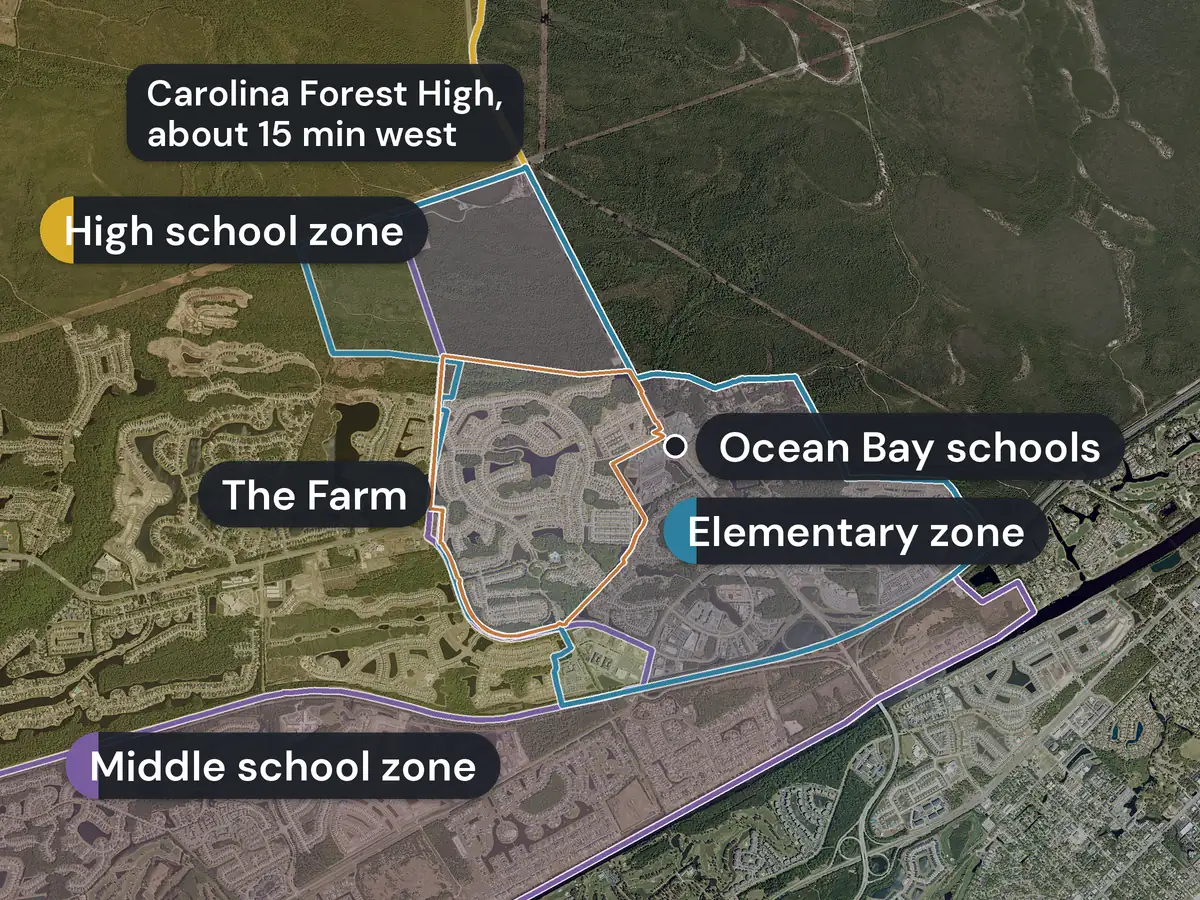
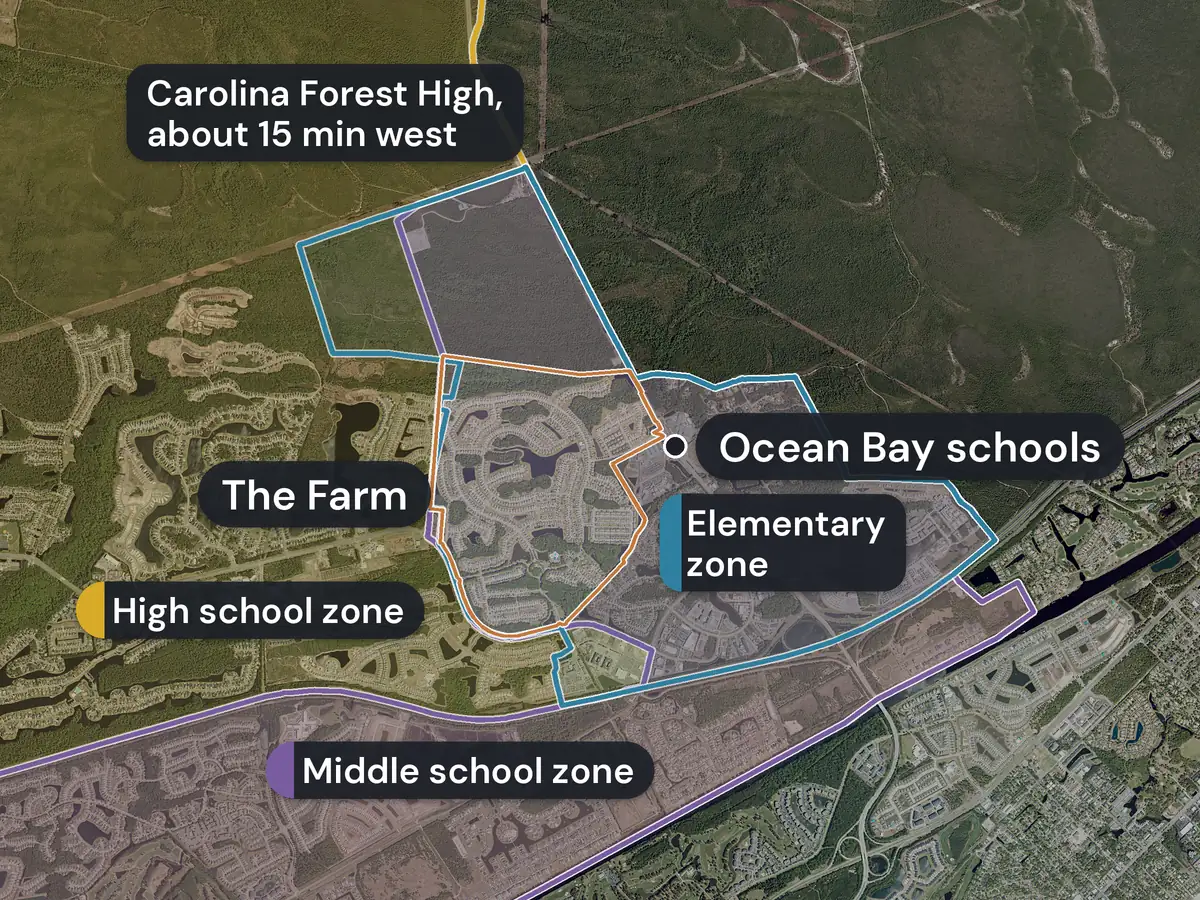
The Farm, round 9b: zone labels wholly inside their zones; school map caption names the line and the shading
Each zone label's box is tested inside its own zone polygon (10 px margin) and clear of The Farm's outline. Elementary zone is on two lines. Zone pills get room for their color mark. Row 95 records the new points and caption.

Claude-Session: https://claude.ai/code/session_012hytMouaajg3aWuepm8WSU

diff --git a/batches/2026-10-b/specs/the-farm.js b/batches/2026-10-b/specs/the-farm.js
@@ -142,7 +142,7 @@ const POOL = ph.aerial("the-farm-pool-from-above-2026", "The large pool and the 
 /* Round 8 (owner, 2026-10-14): a wide, labelled aerial for "where it is" in place of the drawn region map, and a
    school zone aerial from Horry County Schools' zone layers (ledger rows 92 and 93, pending verification). */
 const WIDE = ph.aerial("the-farm-where-from-above", "Where The Farm is. The orange line is its edge.", { closeUp: true });
-const SCHOOLS = ph.aerial("the-farm-school-zones-from-above", "The Farm, in orange, with the school zone lines: blue for Ocean Bay Elementary, purple for Ocean Bay Middle and yellow for Carolina Forest High.", { closeUp: true });
+const SCHOOLS = ph.aerial("the-farm-school-zones-from-above", "The Farm, in orange, with the school zones: a blue line for Ocean Bay Elementary, purple shading for Ocean Bay Middle and yellow shading for Carolina Forest High.", { closeUp: true });
 const M = maps("the-farm", [
   { id: "beach_mb101", name: "the beach in Myrtle Beach", short: "Beach", kind: "beach" },
   { id: "er_mcleod", name: "McLeod Health's emergency room", short: "Emergency room", kind: "hospital" },

diff --git a/batches/2026-10-b/facts/the-farm-facts.md b/batches/2026-10-b/facts/the-farm-facts.md
@@ -163,7 +163,7 @@ The verifier did none of the research. Every source was opened again on 2026-10-
 | 92 | (added 2026-10-14, round 8, schools map) The school zone aerial draws the 2025 to 2026 attendance zone lines for Ocean Bay Elementary (blue), Ocean Bay Middle (purple) and Carolina Forest High (yellow) with The Farm's outline inside all three, and dots for the two Ocean Bay schools on International Drive and Carolina Forest High on Gardner Lacy Road. Page wording under the map: "Every home in The Farm is inside all three zones, so every home has the same three schools." Caption: "The Farm, in orange, with the school zone lines: blue for Ocean Bay Elementary, purple for Ocean Bay Middle and yellow for Carolina Forest High." | 3 zones; 1,559 of 1,559 county address points inside The Farm's outline fall in all three (1,271 of them tagged subdivision FARM AT CAROLINA FOREST) | (a) Horry County Schools, HCS_Attendance_Zones 2025-2026 feature service, layers 3, 2 and 1 (the layers of row 36). (b) Horry County GIS addresses layer 22: school points 905 INTERNATIONAL DR (-78.865901, 33.766381), 950 INTERNATIONAL DR (-78.865751, 33.768153), 700 GARDNER LACY RD (-78.970179, 33.779049), as in row 38; and every address point in The Farm's bounding box, tested against The Farm's outline and the three zones. | (a) https://services2.arcgis.com/i2WjYhcoGsRr8Izd/arcgis/rest/services/HCS_Attendance_Zones__2025_2026/FeatureServer/3/query?where=school%3D%27Ocean+Bay+Elementary%27&outFields=school%2CGradeLevel%2CHCSAddress&returnGeometry=true&outSR=4326&f=geojson ; https://services2.arcgis.com/i2WjYhcoGsRr8Izd/arcgis/rest/services/HCS_Attendance_Zones__2025_2026/FeatureServer/2/query?where=school%3D%27Ocean+Bay+Middle%27&outFields=school%2CGradeLevel%2CHCSAddress&returnGeometry=true&outSR=4326&f=geojson ; https://services2.arcgis.com/i2WjYhcoGsRr8Izd/arcgis/rest/services/HCS_Attendance_Zones__2025_2026/FeatureServer/1/query?where=school%3D%27Carolina+Forest+High%27&outFields=school%2CGradeLevel%2CHCSAddress&returnGeometry=true&outSR=4326&f=geojson (b) https://www.horrycounty.org/parcelapp/rest/services/HorryCountyGISApp/MapServer/22/query?where=ADDRESS+LIKE+%27700+GARDNER+LACY%25%27+OR+ADDRESS+LIKE+%27905+INTERNATIONAL%25%27+OR+ADDRESS+LIKE+%27950+INTERNATIONAL%25%27&outFields=ADDRESS,PIN&returnGeometry=true&outSR=4326&f=json ; https://www.horrycounty.org/parcelapp/rest/services/HorryCountyGISApp/MapServer/22/query?geometry=-78.8862,33.7540,-78.8665,33.7737&geometryType=esriGeometryEnvelope&inSR=4326&spatialRel=esriSpatialRelIntersects&outFields=ADDRESS,PIN,SUBDIVISION&returnGeometry=true&outSR=4326&f=json (paged by 1,000) | (a) properties: "school": "Ocean Bay Elementary", "GradeLevel": "K-5", "HCSAddress": "950 International Drive Myrtle Beach SC 29579"; "Ocean Bay Middle", "6-8", "905 International Drive Myrtle Beach SC 29579"; "Carolina Forest High", "9-12", "700 Gardner Lacy Road Myrtle Beach SC 29579". (b) "ADDRESS": "905 INTERNATIONAL DR" x -78.86590068, y 33.76638085; "950 INTERNATIONAL DR" x -78.86575139, y 33.76815253; "700 GARDNER LACY RD" x -78.97017943, y 33.77904883. Point test (shapely): of 1,981 address points in the box, 1,559 are inside The Farm's outline; 0 of them are outside any of the three zones. All 1,271 points tagged SUBDIVISION "FARM AT CAROLINA FOREST" are inside the outline and inside all three zones. | 2026-10-14 | 2027-06 | verified with corrected wording | 2026-10-14 verifier re-ran the three zone layers (HCS_Attendance_Zones 2025-2026, layers 3, 2, 1; Ocean Bay Elementary K-5, Ocean Bay Middle 6-8, Carolina Forest High 9-12, one polygon each). Point tests: all 1,981 county address points in the box checked; all 1,271 tagged FARM AT CAROLINA FOREST fall in all three zones; all 1,634 parcels whose legal description names the Farm, Orchards, Planters Point or Brookberry (centroid point) fall in all three zones. The 140 address points outside the zones are Summerlyn, Baker Creek and other neighbors, at least 39 m from a Farm parcel. One street name is shared: Old Castle Lp has 27 Summerlyn points just west of The Farm that are outside the elementary and middle zones, and one Farm lot (809 Old Castle Lp) inside all three; so the claim holds for homes, but 'every street' is not proved. Zone year: the district's Attendance Zone Lookup app (item republished 2026-08-07) and its web map, titled 'Horry County Schools Attendance Zones 2025-2026' (modified 2026-08-11), still serve these exact layers; the org has no 2026-2027 layer, and no 2026-27 rezoning for Carolina Forest was found (the December 2024 board vote set the lines for 2025-26). So these are the latest zones the district publishes, but they are labeled 2025-2026, not 2026-2027; keep 'as drawn for 2025 to 2026' in the credit. Dots: 905 and 950 International Dr and 700 Gardner Lacy Rd match the layers' HCSAddress and the county points; the picture draws ONE dot for both Ocean Bay schools (the midpoint of two points 200 m apart), labeled 'Ocean Bay schools', and one dot for Carolina Forest High. Zone lines in the picture match the layer geometry when overlaid. Defects: (1) the 'Ocean Bay schools' label box covers the north end of The Farm's orange outline (the Farm spans about x 873 to 1048, y 373 to 600 of the 1200x900 image; the label covers y 365 to 430); (2) the outline's west edge runs along the blue and purple lines, so the caption's 'inside' is slightly strong (the outline crosses the elementary line on the west by a woods strip with no homes). No rating or quality word anywhere on the map, caption, alt text or school section. Wording: Every home in The Farm is inside all three zones, so every home has the same three schools [Horry County Schools zone layers, 2025-2026]. Caption: The Farm, in orange, with the school zone lines: blue for Ocean Bay Elementary, purple for Ocean Bay Middle and yellow for Carolina Forest High. Alt text: say 'with a blue ... line', not 'inside'; say one dot for the two Ocean Bay schools. Researcher note kept: Writer's note: the outline polygon itself crosses the elementary zone line on its west edge (a strip of about 48,000 square meters of woods and open land, no address points); the page sentence is about homes, so it rests on the address and parcel tests (row 36 tested all 1,571 home parcels). The map shows the zone lines as the district drew them for 2025 to 2026. |
 | 93 | (added 2026-10-14, round 8, where map) The where-it-is aerial labels The Farm, Carolina Forest Boulevard, US 501, "Publix, about 2 min", "Emergency room, about 5 min" and "Beach, about 10 min". Page wording: "The Farm is in Carolina Forest, on Carolina Forest Boulevard." "The map shows drive times by car from the entrance by the large pool." Caption: "Where The Farm is. The orange line is its edge." | 6 labels | (a) Horry County GIS roads layer 18 centerlines: label points are vertices of CAROLINA FOREST BLVD (-78.92273, 33.759784) and HWY 501 (-78.921455, 33.713944). (b) The dots and minutes are the end points and minutes of verified rows 28 (beach access MYRTLE BEACH 101, -78.846516, 33.719685; 10 min), 29 (Publix, -78.870501, 33.751759; 2 min) and 30 (McLeod emergency department, -78.852256, 33.757293). (c) The entrance on Carolina Forest Boulevard: the reference point of row 27 (Farmers Rest Drive meets Carolina Forest Boulevard). (d) NAIP 2023 tiles for the frame from the image service catalog. | (a) https://www.horrycounty.org/parcelapp/rest/services/HorryCountyGISApp/MapServer/18/query?geometry=-78.96%2C33.70%2C-78.84%2C33.79&geometryType=esriGeometryEnvelope&inSR=4326&spatialRel=esriSpatialRelIntersects&where=FULLNAME+LIKE+%27%25501%25%27+OR+FULLNAME+LIKE+%27CAROLINA+FOREST+BLVD%25%27+OR+FULLNAME+LIKE+%27%25HWY+31%25%27+OR+FULLNAME+LIKE+%27CAROLINA+BAYS%25%27+OR+FULLNAME+LIKE+%27INTERNATIONAL+DR%25%27&outFields=FULLNAME&returnGeometry=true&outSR=4326&f=json (paths grouped by FULLNAME) (d) https://imagery.nationalmap.gov/arcgis/rest/services/USGSNAIPImagery/ImageServer/query?where=Year%3D2023&geometry=-78.95562,33.69983,-78.81238,33.78916&geometryType=esriGeometryEnvelope&inSR=4326&spatialRel=esriSpatialRelIntersects&outFields=Name,Year&returnGeometry=false&f=json | (a) vertices [-78.92272302960954, 33.75978366092773] in CAROLINA FOREST BLVD and [-78.9214548890907, 33.71394399469124] in HWY 501. (d) eight tiles, each named ..._20230410: m_3307809_se, m_3307809_sw, m_3307810_se, m_3307810_sw, m_3307817_ne, m_3307817_nw, m_3307818_ne, m_3307818_nw. | 2026-10-14 | 2027-10 | verified with corrected wording | 2026-10-14 verifier re-ran county roads layer 18: HWY 501 and CAROLINA FOREST BLVD centerlines overlaid on the 1200x900 picture. Carolina Forest Blvd runs along The Farm's west and south-east edge and its label sits against the road (label point is a vertex on the line, label hangs just below it); the US 501 label sits on the 501 centerline (the dark diagonal band next to it is the waterway, not the road). The Farm, Publix, Emergency room and Beach dots land within about 5 px of their coordinates (Publix 136 Sapwood Rd; McLeod 107 McLeod Health Blvd; MYRTLE BEACH 101). Rows 27 to 30 are verified and the minutes agree (Publix about 2, beach about 10). 'On Carolina Forest Boulevard' holds (row 27: Farmers Rest Dr meets Carolina Forest Blvd; Mill St is also on it). The caption says only what the picture shows. No rating or quality word. Defect: the page sentence 'The map shows drive times by car from the entrance by the large pool' is too strong: the map shows minutes for Publix and the beach only; the emergency room label has none, and the entrance is not marked. Wording: The map shows drive times by car for Publix and the beach, from the entrance by the large pool. Or change the label 'Emergency room' to 'Emergency room, about 5 min' (row 30: 5.2 min) and keep the sentence. Researcher note kept: Writer's note: the labels add no new fact: the minutes and places are rows 28 to 30. |
 | 94 | (added 2026-10-14, round 9, history) Page wording in "What are the homes like": "D.R. Horton recorded The Farm's HOA rules in 2004 and added land in stages until 2017. In 2019, it ended its right to appoint a majority of the HOA board. The farm theme runs through the street names, such as Scarecrow Way, Haystack Way, Pumpkin Patch Lane and Wheatfield Drive." | 2004; 2017; 2019; four street names | Rows 18 and 19 (verified: covenants recorded February 13, 2004; land added 2004 to 2017); row 21 in the verifier's safe wording ("D.R. Horton ended its right to appoint a majority of the HOA board in July and August 2019"); neighborhoods-facts.md row 213 (verified with corrected wording: county roads layer 18 FULLNAME within about 500 m of 2884 Scarecrow Way: Scarecrow Way, Haystack Way, Pumpkin Patch Lane, Wheatfield Drive) and row 208 (the same history on the best neighborhoods page, verified). | See rows 18, 19, 21 and neighborhoods-facts.md rows 208 and 213 | See those rows. "HOA rules" for the covenants is the wording row 208 uses. | 2026-10-14 | 2028-10 | verified | 2026-10-14. Read ledger rows 18, 19 and 21 here and neighborhoods-facts.md rows 208 and 213; every part of the sentence matches them. 2004: covenants recorded 2/13/2004 (Book 2697, Page 128), row 18. Land added in stages 2004 to 2017, last amendments recorded 3/1/2017 and 5/3/2017, row 19. 2019: row 21 is marked wrong as written, and its safe wording (ended its right to appoint a majority of the HOA board in July and August 2019) is what the page says, in a year; 'handed control to the owners' is not used. Street names: I pulled the county roads layer 18 myself within the Farm's box (-78.8862, 33.7540, -78.8665, 33.7737) and got SCARECROW WAY, HAYSTACK WAY, PUMPKIN PATCH LN, WHEATFIELD DR, and also HAYSEED WAY, HARVEST RUN WAY and HARVESTER CIR, so 'the farm theme' holds. 'HOA rules' for the recorded covenants is the wording of neighborhoods row 208; a plainer word is 'covenants', but 'HOA rules' is acceptable. I did not re-open the HOA's posted PDFs or the deed index in this round; the rows were verified earlier. |
-| 95 | (added 2026-10-14, round 9, schools map redraw) The school zone aerial is redrawn so The Farm reads inside all three zones: a closer frame on the east side of Carolina Forest; the high school zone shaded yellow and the middle school zone shaded purple, the elementary zone a blue line with a faint fill; each zone label inside its own zone; one dot for the two Ocean Bay schools; Carolina Forest High is off the frame, so a note at the upper left reads "Carolina Forest High, about 15 min west". Caption unchanged (row 92). | zone label points: Elementary (-78.851, 33.7615) in all three; Middle (-78.898, 33.7455) in middle and high, not elementary; High (-78.902, 33.782) in high only. Carolina Forest High from the entrance: 0.095 degrees of longitude west, 0.024 north; 15.7 min (row 38) | Zone layers and address points as in row 92; drive time from row 38 (verified); NAIP 2023 tiles m_3307809_se, m_3307810_sw, m_3307817_ne, m_3307818_nw (all _20230410) from the image service catalog for the new frame. | As row 92; https://imagery.nationalmap.gov/arcgis/rest/services/USGSNAIPImagery/ImageServer/query?where=Year%3D2023&geometry=-78.92119,33.73633,-78.82281,33.79766&geometryType=esriGeometryEnvelope&inSR=4326&spatialRel=esriSpatialRelIntersects&outFields=Name&returnGeometry=false&f=json | Point tests (shapely) against the three zone polygons of row 92; frame bbox -78.92119, 33.73633, -78.82281, 33.79766. | 2026-10-14 | 2027-06 | verified with corrected wording | 2026-10-14. Drive: re-ran OSRM from the entrance point (-78.87521, 33.75487): Ocean Bay Middle 247.5 s, 2,865.1 m; Ocean Bay Elementary 365.2 s, 3,534.9 m; Carolina Forest High 941.1 s (15.7 min), 12,095.1 m. Same as row 38. Carolina Forest High is 0.095 degrees west and 0.024 north of the entrance, so 'west' (west-north-west) holds; '15 min' is the page's usual rounding (15.7 min would round to 16). Zones: pulled the three layers (HCS_Attendance_Zones 2025-2026, layers 3, 2, 1) and drew them over the image on the stated frame (-78.92119, 33.73633, -78.82281, 33.79766). The drawn lines and shading match the district layers: the blue line is the elementary zone, the purple the middle, the high school zone covers the west and north side and its edge runs along the east of the frame. The Farm lies inside all three (row 92: 1,559 of 1,559 points). The three label points in the row fall in the right zones (Elementary point in all three, Middle point in middle and high, High point in high only). One dot for both Ocean Bay schools sits between them (about 200 m apart). Problems with the picture: (1) The Elementary label is not inside its zone: the dot and the word 'Elementary' are, but the pill runs past the zone's east edge, so 'zone' (about 12 to 18 percent of the pill) sits outside all three zones. Move the label left or down so the whole pill is inside the blue line. (2) The High school zone label's right end overlaps the blue and purple lines (it stays inside the high zone, but its end looks like it sits on the elementary and middle zone lines); move it left. (3) The Middle label is inside, but its top-left corner touches the purple line. (4) The yellow high school line is drawn only at the top left; the rest of that zone's edge is hidden behind the blue and purple lines or is shading only. Caption: 'school zone lines: ... yellow for Carolina Forest High' overstates lines. Safe caption: The Farm, in orange, with the school zones: a blue line for Ocean Bay Elementary, purple shading for Ocean Bay Middle and yellow shading for Carolina Forest High. The yellow shading is faint on the green aerial. |
+| 95 | (added 2026-10-14, round 9, schools map redraw) The school zone aerial is redrawn so The Farm reads inside all three zones: a closer frame on the east side of Carolina Forest; the high school zone shaded yellow and the middle school zone shaded purple, the elementary zone a blue line with a faint fill; each zone label inside its own zone; one dot for the two Ocean Bay schools; Carolina Forest High is off the frame, so a note at the upper left reads "Carolina Forest High, about 15 min west". Caption unchanged (row 92). | zone label points (round 9b: each label's whole box inside its zone): Elementary (-78.857039, 33.760699) in all three; Middle (-78.883477, 33.745193) in middle and high, not elementary; High (-78.900692, 33.756099) in high only. Caption (round 9b): "The Farm, in orange, with the school zones: a blue line for Ocean Bay Elementary, purple shading for Ocean Bay Middle and yellow shading for Carolina Forest High." Carolina Forest High from the entrance: 0.095 degrees of longitude west, 0.024 north; 15.7 min (row 38) | Zone layers and address points as in row 92; drive time from row 38 (verified); NAIP 2023 tiles m_3307809_se, m_3307810_sw, m_3307817_ne, m_3307818_nw (all _20230410) from the image service catalog for the new frame. | As row 92; https://imagery.nationalmap.gov/arcgis/rest/services/USGSNAIPImagery/ImageServer/query?where=Year%3D2023&geometry=-78.92119,33.73633,-78.82281,33.79766&geometryType=esriGeometryEnvelope&inSR=4326&spatialRel=esriSpatialRelIntersects&outFields=Name&returnGeometry=false&f=json | Point tests (shapely) against the three zone polygons of row 92; frame bbox -78.92119, 33.73633, -78.82281, 33.79766. | 2026-10-14 | 2027-06 | verified with corrected wording | 2026-10-14. Drive: re-ran OSRM from the entrance point (-78.87521, 33.75487): Ocean Bay Middle 247.5 s, 2,865.1 m; Ocean Bay Elementary 365.2 s, 3,534.9 m; Carolina Forest High 941.1 s (15.7 min), 12,095.1 m. Same as row 38. Carolina Forest High is 0.095 degrees west and 0.024 north of the entrance, so 'west' (west-north-west) holds; '15 min' is the page's usual rounding (15.7 min would round to 16). Zones: pulled the three layers (HCS_Attendance_Zones 2025-2026, layers 3, 2, 1) and drew them over the image on the stated frame (-78.92119, 33.73633, -78.82281, 33.79766). The drawn lines and shading match the district layers: the blue line is the elementary zone, the purple the middle, the high school zone covers the west and north side and its edge runs along the east of the frame. The Farm lies inside all three (row 92: 1,559 of 1,559 points). The three label points in the row fall in the right zones (Elementary point in all three, Middle point in middle and high, High point in high only). One dot for both Ocean Bay schools sits between them (about 200 m apart). Problems with the picture: (1) The Elementary label is not inside its zone: the dot and the word 'Elementary' are, but the pill runs past the zone's east edge, so 'zone' (about 12 to 18 percent of the pill) sits outside all three zones. Move the label left or down so the whole pill is inside the blue line. (2) The High school zone label's right end overlaps the blue and purple lines (it stays inside the high zone, but its end looks like it sits on the elementary and middle zone lines); move it left. (3) The Middle label is inside, but its top-left corner touches the purple line. (4) The yellow high school line is drawn only at the top left; the rest of that zone's edge is hidden behind the blue and purple lines or is shading only. Caption: 'school zone lines: ... yellow for Carolina Forest High' overstates lines. Safe caption: The Farm, in orange, with the school zones: a blue line for Ocean Bay Elementary, purple shading for Ocean Bay Middle and yellow shading for Carolina Forest High. The yellow shading is faint on the green aerial. |
 
 ## Sales evidence for rows 47 to 49
 
